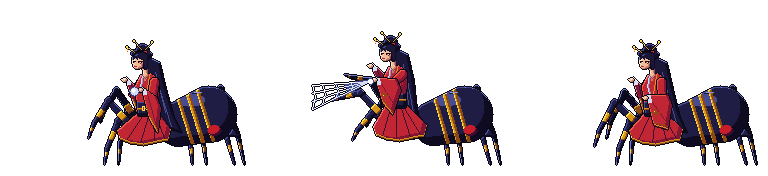
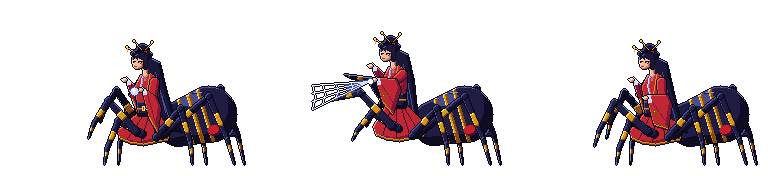
Ebenen in Sprites: nahe Spinnenbeine (Kumo, Gyūki, Tsuchigumo, Jorōgumo) vor Kopf, Körper und Rock
Claude-Session: https://claude.ai/code/session_01KhgxT7a5tRTGeQVFkHSAcV

Changed region(s): [[0.8125, 0.5398, 0.9688, 0.8239], [0.4688, 0.5398, 0.625, 0.8239], [0.1562, 0.5398, 0.3125, 0.8239]]

diff --git a/art_src/fable/enemies_6/spider.py b/art_src/fable/enemies_6/spider.py
@@ -16,7 +16,8 @@ FEET_N = [(6, GY), (28, GY), (76, GY), (106, GY)]
 FEET_F = [(14, GY - 3), (40, GY - 3), (80, GY - 3), (112, GY - 3)]
 HIPS_N = [(40, 50), (46, 52), (52, 52), (57, 50)]
 HIPS_F = [(42, 46), (48, 47), (54, 47), (58, 45)]
-KNEE_H = [22, 20, 26, 30]          # Kniehöhe über dem Boden-Ursprung
+KNEE_H = [22, 20, 26, 30]          # Knie-y der fernen Beine
+KNEE_N = [60, 55, 26, 30]          # nahe Vorderbeine greifen tief nach vorn, vor dem Kiefer vorbei
 
 
 def P(x, y):
@@ -75,13 +76,12 @@ def body(c, S, ramps, head_fn, abd_fn):
     p.form(pro, ramps['body'], sd=3, hl=1)
     p.line([P(44, 38 + bob - rear * 0.7), P(56, 38 + bob - rear * 0.7)], ramps['body'][0], only=erode(pro, 1))
     c.stamp(p, 'K')
-    # ---- nahe Beine
+    # ---- Kopf, danach die nahen Beine davor (sie sind dem Betrachter am nächsten)
+    head_fn(c, P(32, 40 + bob - rear * 1.2), S)
     for i in range(4):
         lift = lifts[i] if not rear or i > 1 else 10 + i * 3
         reach = (-sw if i % 2 else sw) - (rear * 0.8 if i < 2 else 0)
         hip = (HIPS_N[i][0], HIPS_N[i][1] + bob - (rear if i < 2 else 0))
-        leg(c, hip, FEET_N[i], KNEE_H[i] + bob - rear * (2 if i < 2 else 0), LEGR, JNT, STR, lift, reach)
-    # ---- Kopf
-    head_fn(c, P(32, 40 + bob - rear * 1.2), S)
+        leg(c, hip, FEET_N[i], KNEE_N[i] + bob - rear * (3 if i < 2 else 0), LEGR, JNT, STR, lift, reach)
     c.blacken()
     return c

diff --git a/art_src/fable/enemies_6/kumo.py b/art_src/fable/enemies_6/kumo.py
@@ -45,7 +45,7 @@ def draw(bob=0, g=0, crouch=0, air=0, spread=0, fang=0):
             else:
                 ly = gy - (lifts[i] if not far else lifts[(i + 1) % 4]) - (2 if far else 0)
             kx = hx + (fx - hx) * 0.45
-            ky = min(hy, ly) - 4 - (i in (0, 3)) * 2
+            ky = (hy + 2) if (i < 2 and not far and not spread) else min(hy, ly) - 4 - (i in (0, 3)) * 2
             out.append(((hx, hy), (kx, ky), (fx, ly)))
         return out
     for (h, k, f) in legs(True):
@@ -63,8 +63,6 @@ def draw(bob=0, g=0, crouch=0, air=0, spread=0, fang=0):
         p.pxs([q], 'u3')
     p.pxs([P(47, 24 + dy), P(48, 25 + dy)], 'u0')                     # Spinnwarzen
     c.stamp(p, 'K')
-    for (h, k, f) in legs(False):
-        leg(c, h, k, f, BODY, 'u3')
     # Kopfbruststück
     p = C()
     ceph = E(*P(21, 21 + dy), 8.4, 6.4) | E(*P(17, 19 + dy), 5.4, 5.4)
@@ -87,6 +85,8 @@ def draw(bob=0, g=0, crouch=0, air=0, spread=0, fang=0):
         p.form(ch, BODYF if far else BODY, sd=1, hl=1)
         p.fill(L(*P(x - 0.5, 28 + dy), 0.7, *P(x - 1.5 - fang, 30 + dy + fang), 0.4), 'b3')
     c.stamp(p, 'K')
+    for (h, k, f) in legs(False):
+        leg(c, h, k, f, BODY, 'u3')
     c.blacken()
     return c
 

diff --git a/art_src/fable/bosses_1/boss_jorogumo.py b/art_src/fable/bosses_1/boss_jorogumo.py
@@ -97,9 +97,6 @@ def jorogumo(**kw):
     for key in ('f4', 'f3', 'f2', 'f1'):
         sleg(c, *LG(S[key], 0.2 if key in ('f3', 'f4') else 0.7), near=False)
 
-    # hintere nahe Beine hinter den Hinterleib (Ebenen-Korrektur)
-    for key in ('n4', 'n3'):
-        sleg(c, *LG(S[key], 0.2), near=True)
     # ---- abdomen
     p = C()
     a0, a1 = Bs((134, 90), 0.1), Bs((164, 80), 0.0)
@@ -125,8 +122,6 @@ def jorogumo(**kw):
     p.form(ceph, BLK, sd=4, hl=1)
     c.stamp(p, 'K')
 
-    for key in ('n2', 'n1'):
-        sleg(c, *LG(S[key], 0.7), near=True)
 
     # ---- long hair down the back
     p = C()
@@ -178,6 +173,9 @@ def jorogumo(**kw):
     hem = skirt & ~sh(skirt, 0, -2)
     p.fill(hem, 'y1'); p.fill(skirt & ~sh(skirt, 0, -1), 'y0')
     c.stamp(p, 'K')
+    # nahe Beine vor Hinterleib und Rocksaum – sie sind dem Betrachter am nächsten
+    for key in ('n4', 'n3', 'n2', 'n1'):
+        sleg(c, *LG(S[key], 0.2 if key in ('n3', 'n4') else 0.7), near=True)
     p = C()
     torso = PG([B((91, 47)), B((101, 45)), B((109, 51)), B((108, 86)), B((89, 86)), B((86, 58))])
     p.form(torso, RED, sd=4, hl=1)
